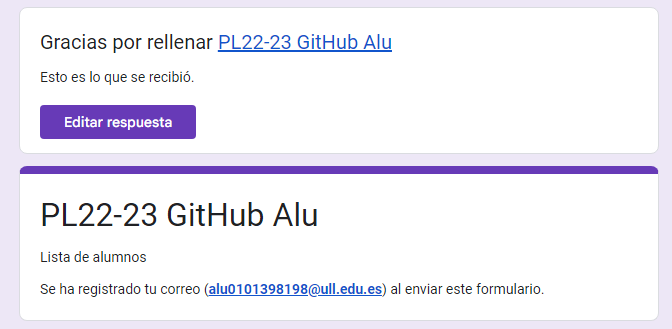
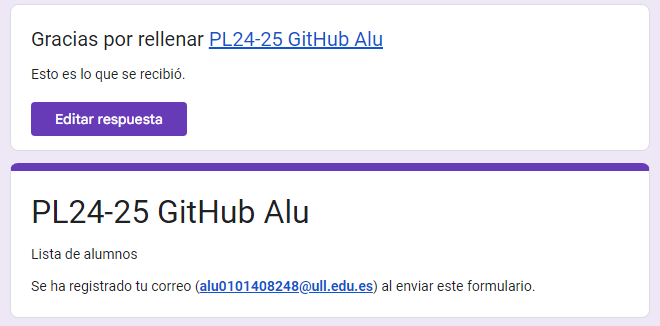
Actualizando Informe

diff --git a/README.md b/README.md
@@ -1,9 +1,9 @@
 [![Open in Codespaces](https://classroom.github.com/assets/launch-codespace-2972f46106e565e64193e422d61a12cf1da4916b45550586e14ef0a7c637dd04.svg)](https://classroom.github.com/open-in-codespaces?assignment_repo_id=18148084)
 # Github Campus Expert 
 
-- Nombre 
-- Apellidos 
-- aluXXXX
+- Thomas Edward 
+- Bradley 
+- alu0101408248
 
 ## Rellenar el cuestionario GitHub-Alu del campus virtual y recibir el correo confirmándolo
 
@@ -15,8 +15,12 @@
 
 ## Crear un project board kanban para este repositorio
 
-![project board kanban](docs/project_board.png)
+![project board kanban](docs/project_board.png)  
+  
+![privacidad project board](docs/board_privacy.png)
 
 ## Solicitar el GitHub Backpack
 
+Trate de solicitar Github Education pero mi tarjeta física de la ULL esta fuera de fecha, no pude sacar foto de la tarjeta digital y Github no me aceptaba recibos / pruebas de matricula.  
+  
 ![github backpack](docs/backpack.png)
